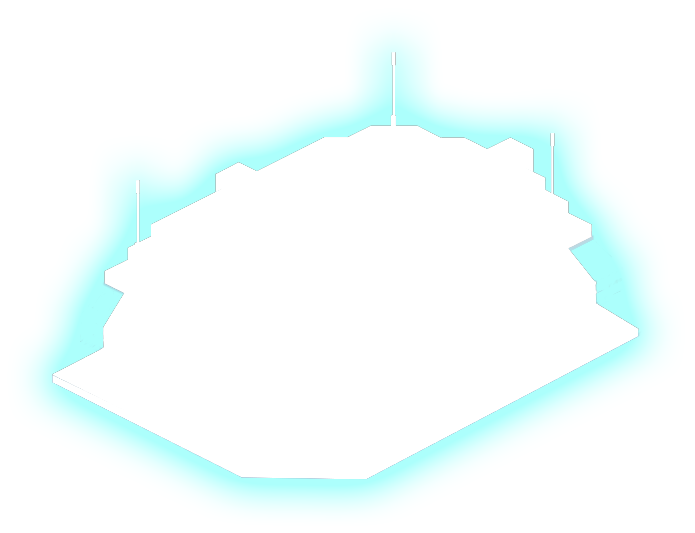
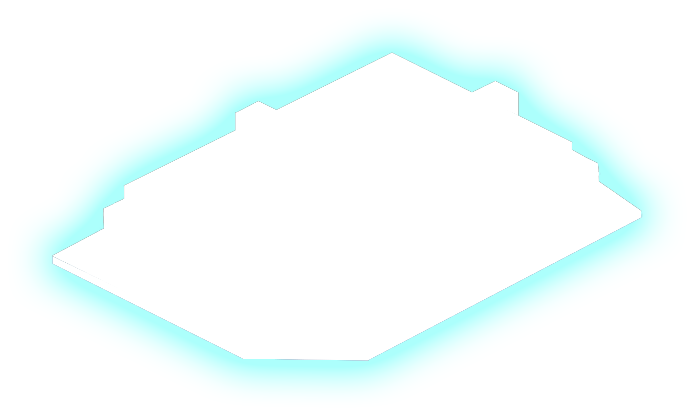
added 2 levels of stadium

Changed region(s): [[0.0302, 0.087, 0.9669, 0.9275], [0.1813, 0.3188, 0.2417, 0.4638], [0.2417, 0.3768, 0.2719, 0.4058]]

diff --git a/src/buildings/config.ts b/src/buildings/config.ts
@@ -34,8 +34,12 @@ import theaterTowerLevel2Img from './theater/2.png';
 import theaterTowerLevel2Stroke from './theater/2-stroke.png';
 import TVTowerLevel2Stroke from './TV/2-stroke.png';
 import TVTowerLevel2Img from './TV/2.png';
+import stadiumLevel1Img from './stadium/1.png';
 import stadiumLevel2Img from './stadium/2.png';
+import stadiumLevel3Img from './stadium/3.png';
+import stadiumLevel1Stroke from './stadium/1-stroke.png';
 import stadiumLevel2Stroke from './stadium/2-stroke.png';
+import stadiumLevel3Stroke from './stadium/3-stroke.png';
 import airportLevel1Img from './airport/1.png';
 import airportLevel2Img from './airport/2.png';
 import airportLevel3Img from './airport/3.png';
@@ -358,33 +362,31 @@ export class BuildingsService {
     },
     [TowersTypes.STADIUM]: {
       info: 'info',
-      coords: [2705, 2314],
+      coords: [2676, 2362],
       zIndex: 1,
       [TowerLevel.low]: {
-        // TODO: не настоящая картинка
-        img: musicTowerLevel1Img,
-        width: 1,
-        height: 2,
-        shadowImg: musicTowerLevel1Stroke,
+        img: stadiumLevel1Img,
+        width: 635,
+        height: 391,
+        shadowImg: stadiumLevel1Stroke,
         areaCoords: '27,39,524,355',
-        position: [42.2, 36.9],
+        position: [39.5, 30.7],
       },
       [TowerLevel.mid]: {
         img: stadiumLevel2Img,
-        width: 695,
-        height: 533,
+        width: 696,
+        height: 414,
         shadowImg: stadiumLevel2Stroke,
         areaCoords: '27,39,524,355',
-        position: [37.8, 30.6],
+        position: [39.2, 30.5],
       },
       [TowerLevel.high]: {
-        // TODO: не настоящая картинка
-        img: eggTowerLevel3Img,
-        width: 384,
-        height: 531,
-        shadowImg: eggTowerLevel3Stroke,
+        img: stadiumLevel3Img,
+        width: 695,
+        height: 533,
+        shadowImg: stadiumLevel3Stroke,
         areaCoords: '320,441,50,45',
-        position: [31.5, 50.9],
+        position: [37.2, 30.5],
       },
     },
     [TowersTypes.AIRPORT]: {
@@ -467,37 +469,6 @@ export class BuildingsService {
         shadowImg: bankLevel2Stroke,
         areaCoords: '516,39,69,578',
         position: [23, 66.4],
-      },
-      // TODO: не настоящая картинка
-      [TowerLevel.high]: {
-        img: airportLevel3Img,
-        width: 573,
-        height: 449,
-        shadowImg: airportLevel3Stroke,
-        areaCoords: '595,126,90,476',
-        position: [18.9, 28.3],
-      },
-    },
-    [TowersTypes.CYBER_ARENA]: {
-      info: 'info',
-      coords: [4860, 2526],
-      zIndex: 1,
-      [TowerLevel.low]: {
-        img: cyberArenaLevel1Img,
-        width: 765,
-        height: 554,
-        shadowImg: cyberArenaLevel1Stroke,
-        areaCoords: '81,57,675,472',
-        position: [40.7, 59],
-      },
-      // TODO: не настоящая картинка
-      [TowerLevel.mid]: {
-        img: bankLevel2Img,
-        width: 579,
-        height: 688,
-        shadowImg: bankLevel2Stroke,
-        areaCoords: '516,39,69,578',
-        position: [23.4, 66.4],
       },
       // TODO: не настоящая картинка
       [TowerLevel.high]: {

diff --git a/src/effector/towers-progress/store.ts b/src/effector/towers-progress/store.ts
@@ -65,7 +65,7 @@ const initState: TowersProgressStoreType = {
     progress: 0,
   },
   [TowersTypes.STADIUM]: {
-    level: TowerLevel.mid,
+    level: TowerLevel.low,
     progress: 0,
   },
   [TowersTypes.AIRPORT]: {
